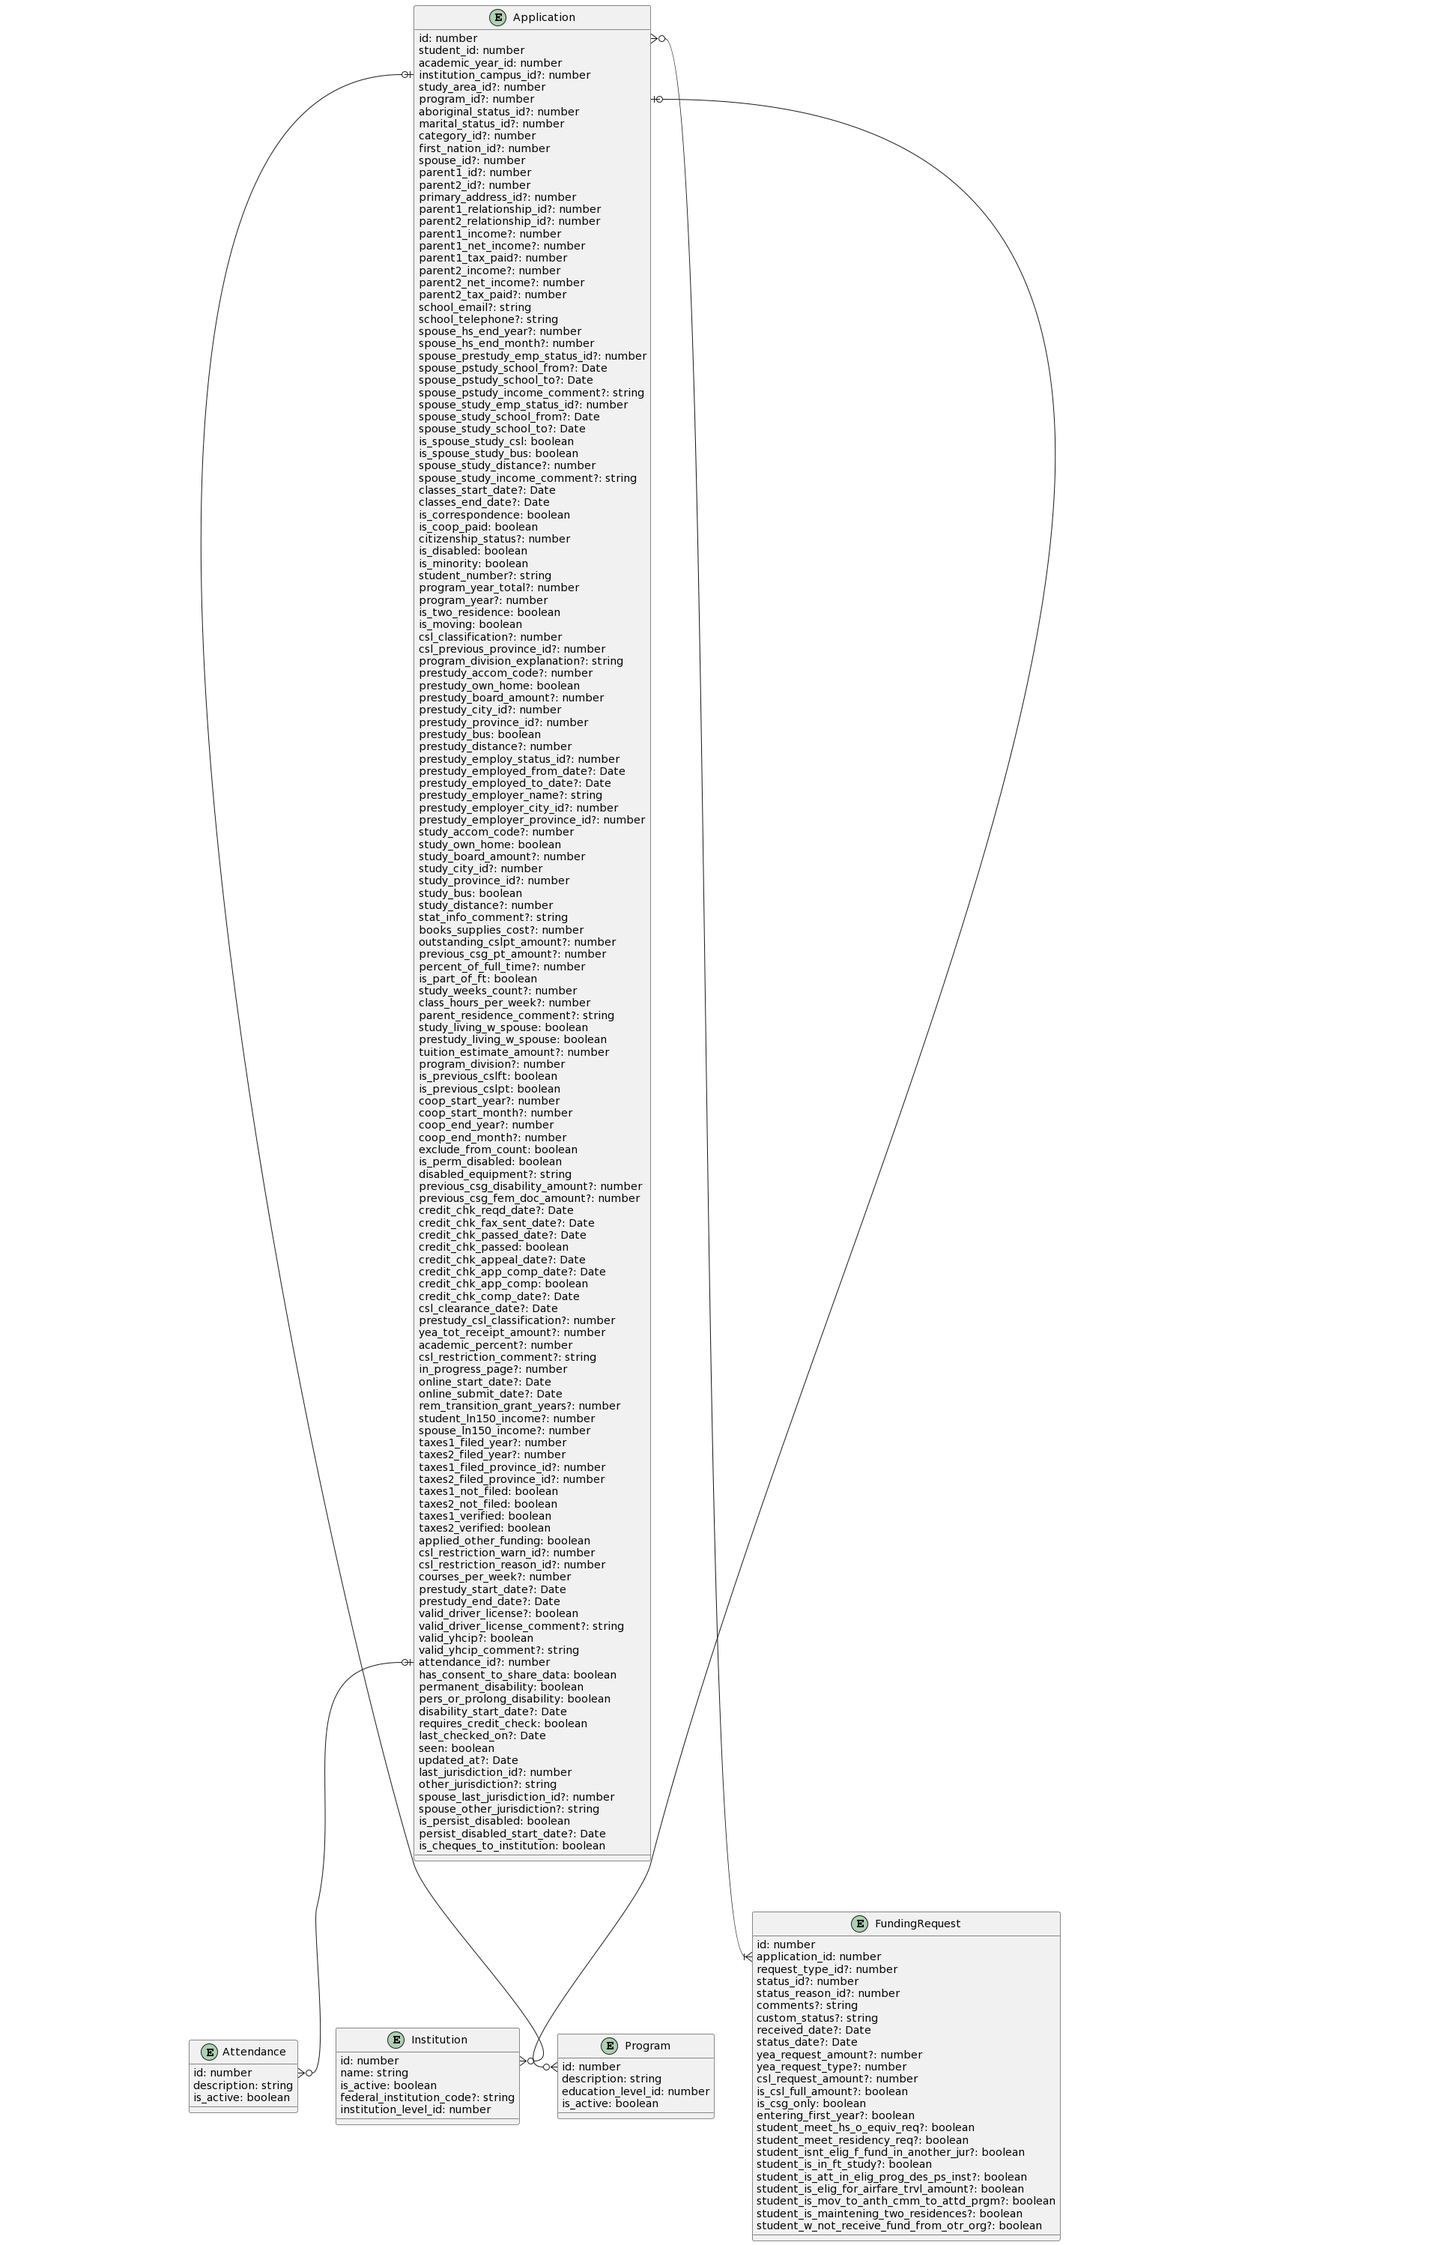
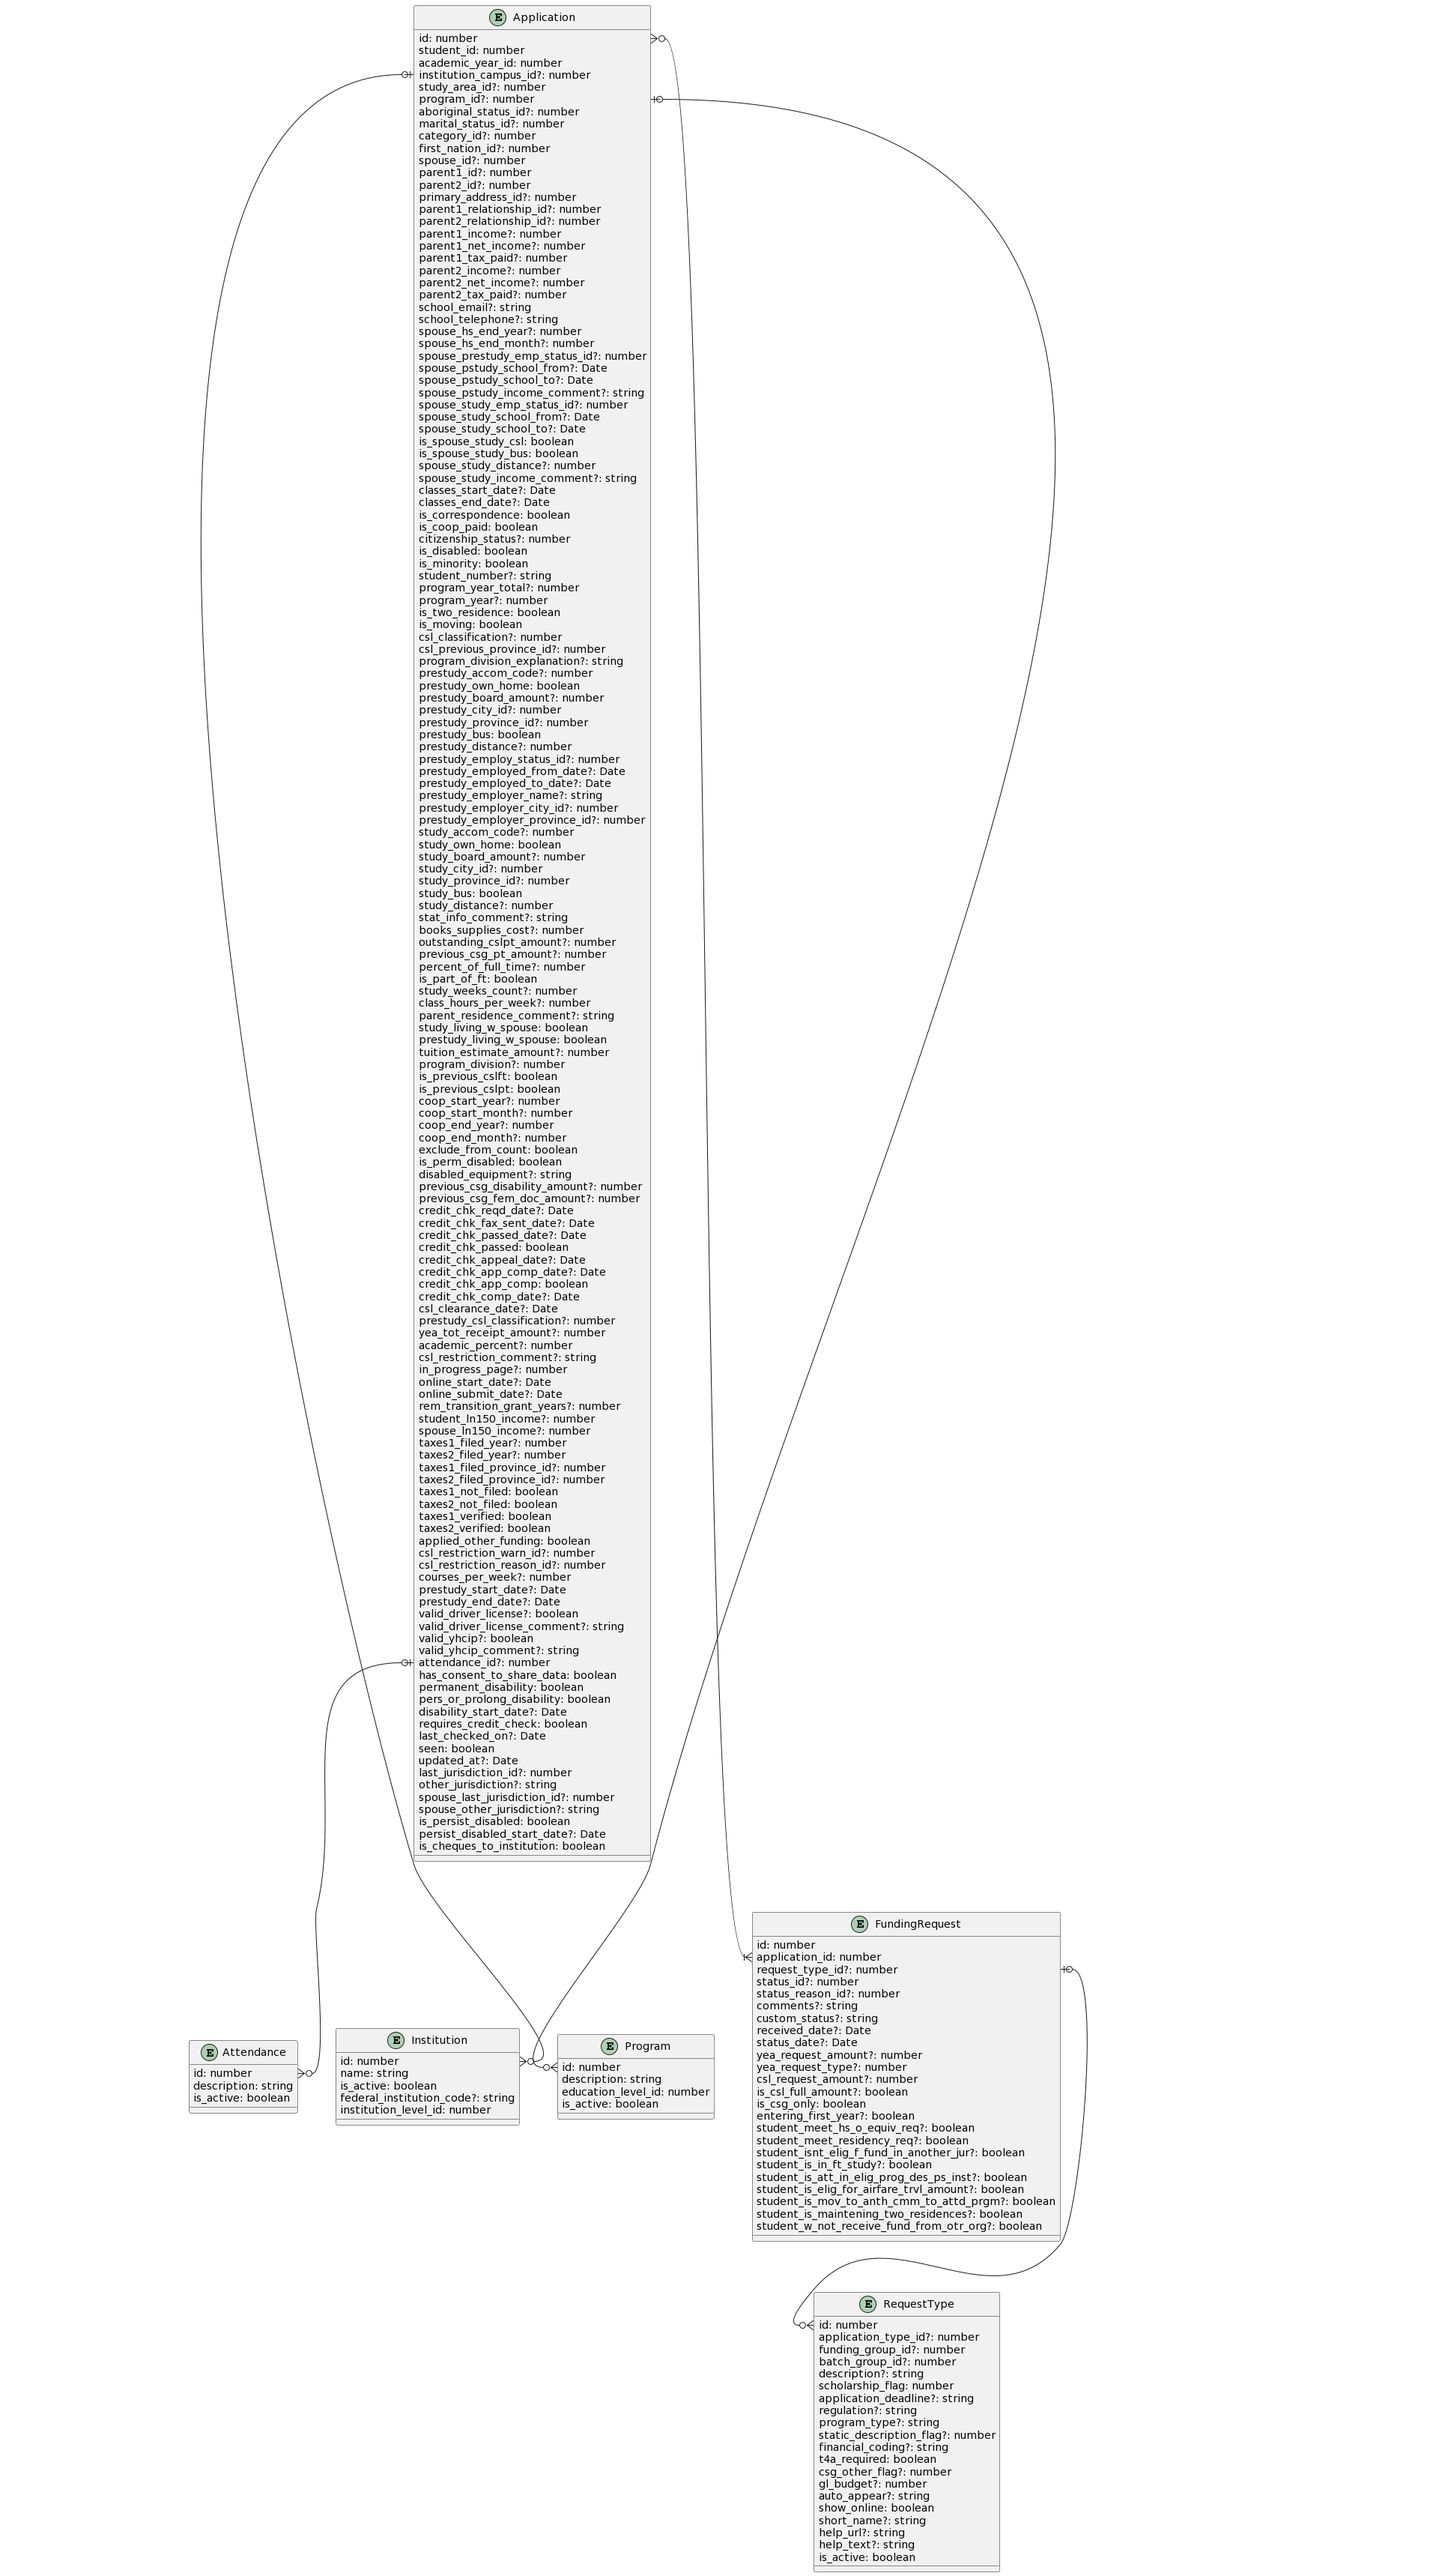
:tophat: Add request type modelling.

diff --git a/src/api/models/request-type.ts b/src/api/models/request-type.ts
@@ -1,0 +1,22 @@
+export default interface RequestType {
+  id: number
+  applicationTypeId?: number
+  fundingGroupId?: number
+  batchGroupId?: number
+  description?: string
+  scholarshipFlag: number
+  applicationDeadline?: string
+  regulation?: string
+  programType?: string
+  staticDescriptionFlag?: number
+  financialCoding?: string
+  t4aRequired: boolean
+  csgOtherFlag?: number
+  glBudget?: number
+  autoAppear?: string
+  showOnline: boolean
+  shortName?: string
+  helpUrl?: string
+  helpText?: string
+  isActive: boolean
+}

diff --git a/src/api/models/funding-request.ts b/src/api/models/funding-request.ts
@@ -1,3 +1,5 @@
+import RequestType from "@/models/request-type"
+
 export default interface FundingRequest {
   id: number
   applicationId: number
@@ -23,4 +25,5 @@ export default interface FundingRequest {
   studentIsMovToAnthCmmToAttdPrgm?: boolean
   studentIsMainteningTwoResidences?: boolean
   studentWNotReceiveFundFromOtrOrg?: boolean
+  requestType?: RequestType
 }
